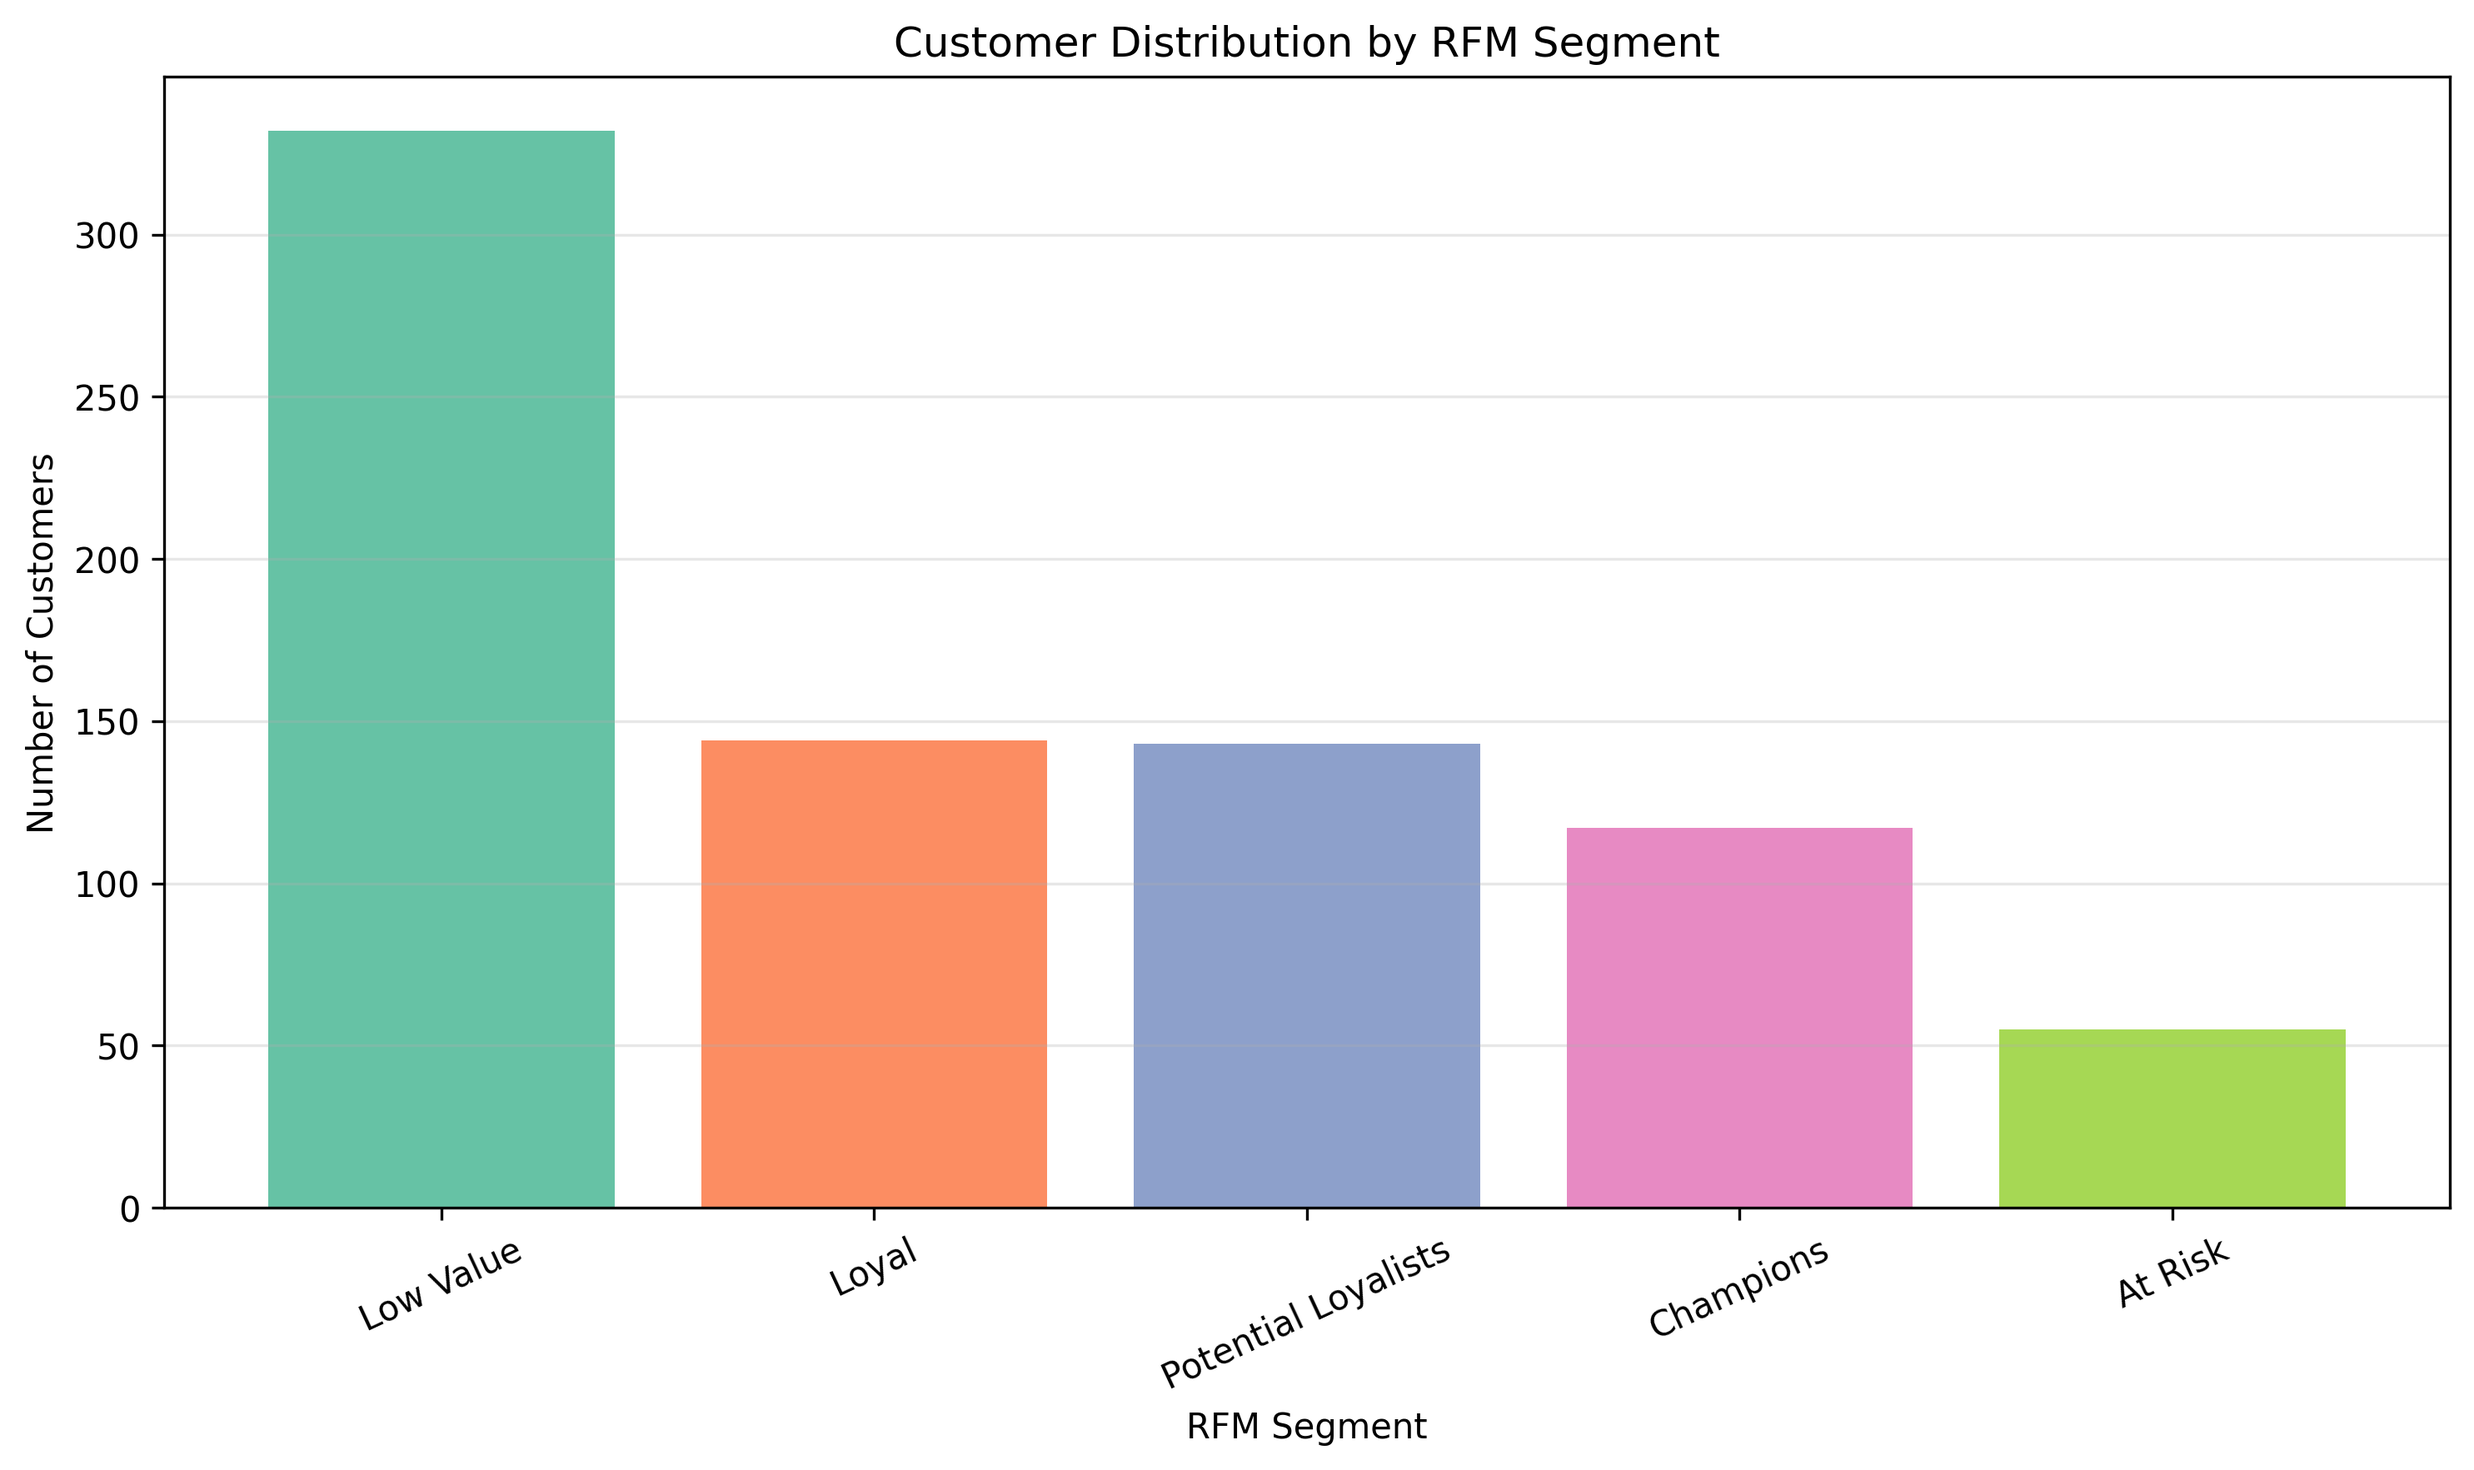
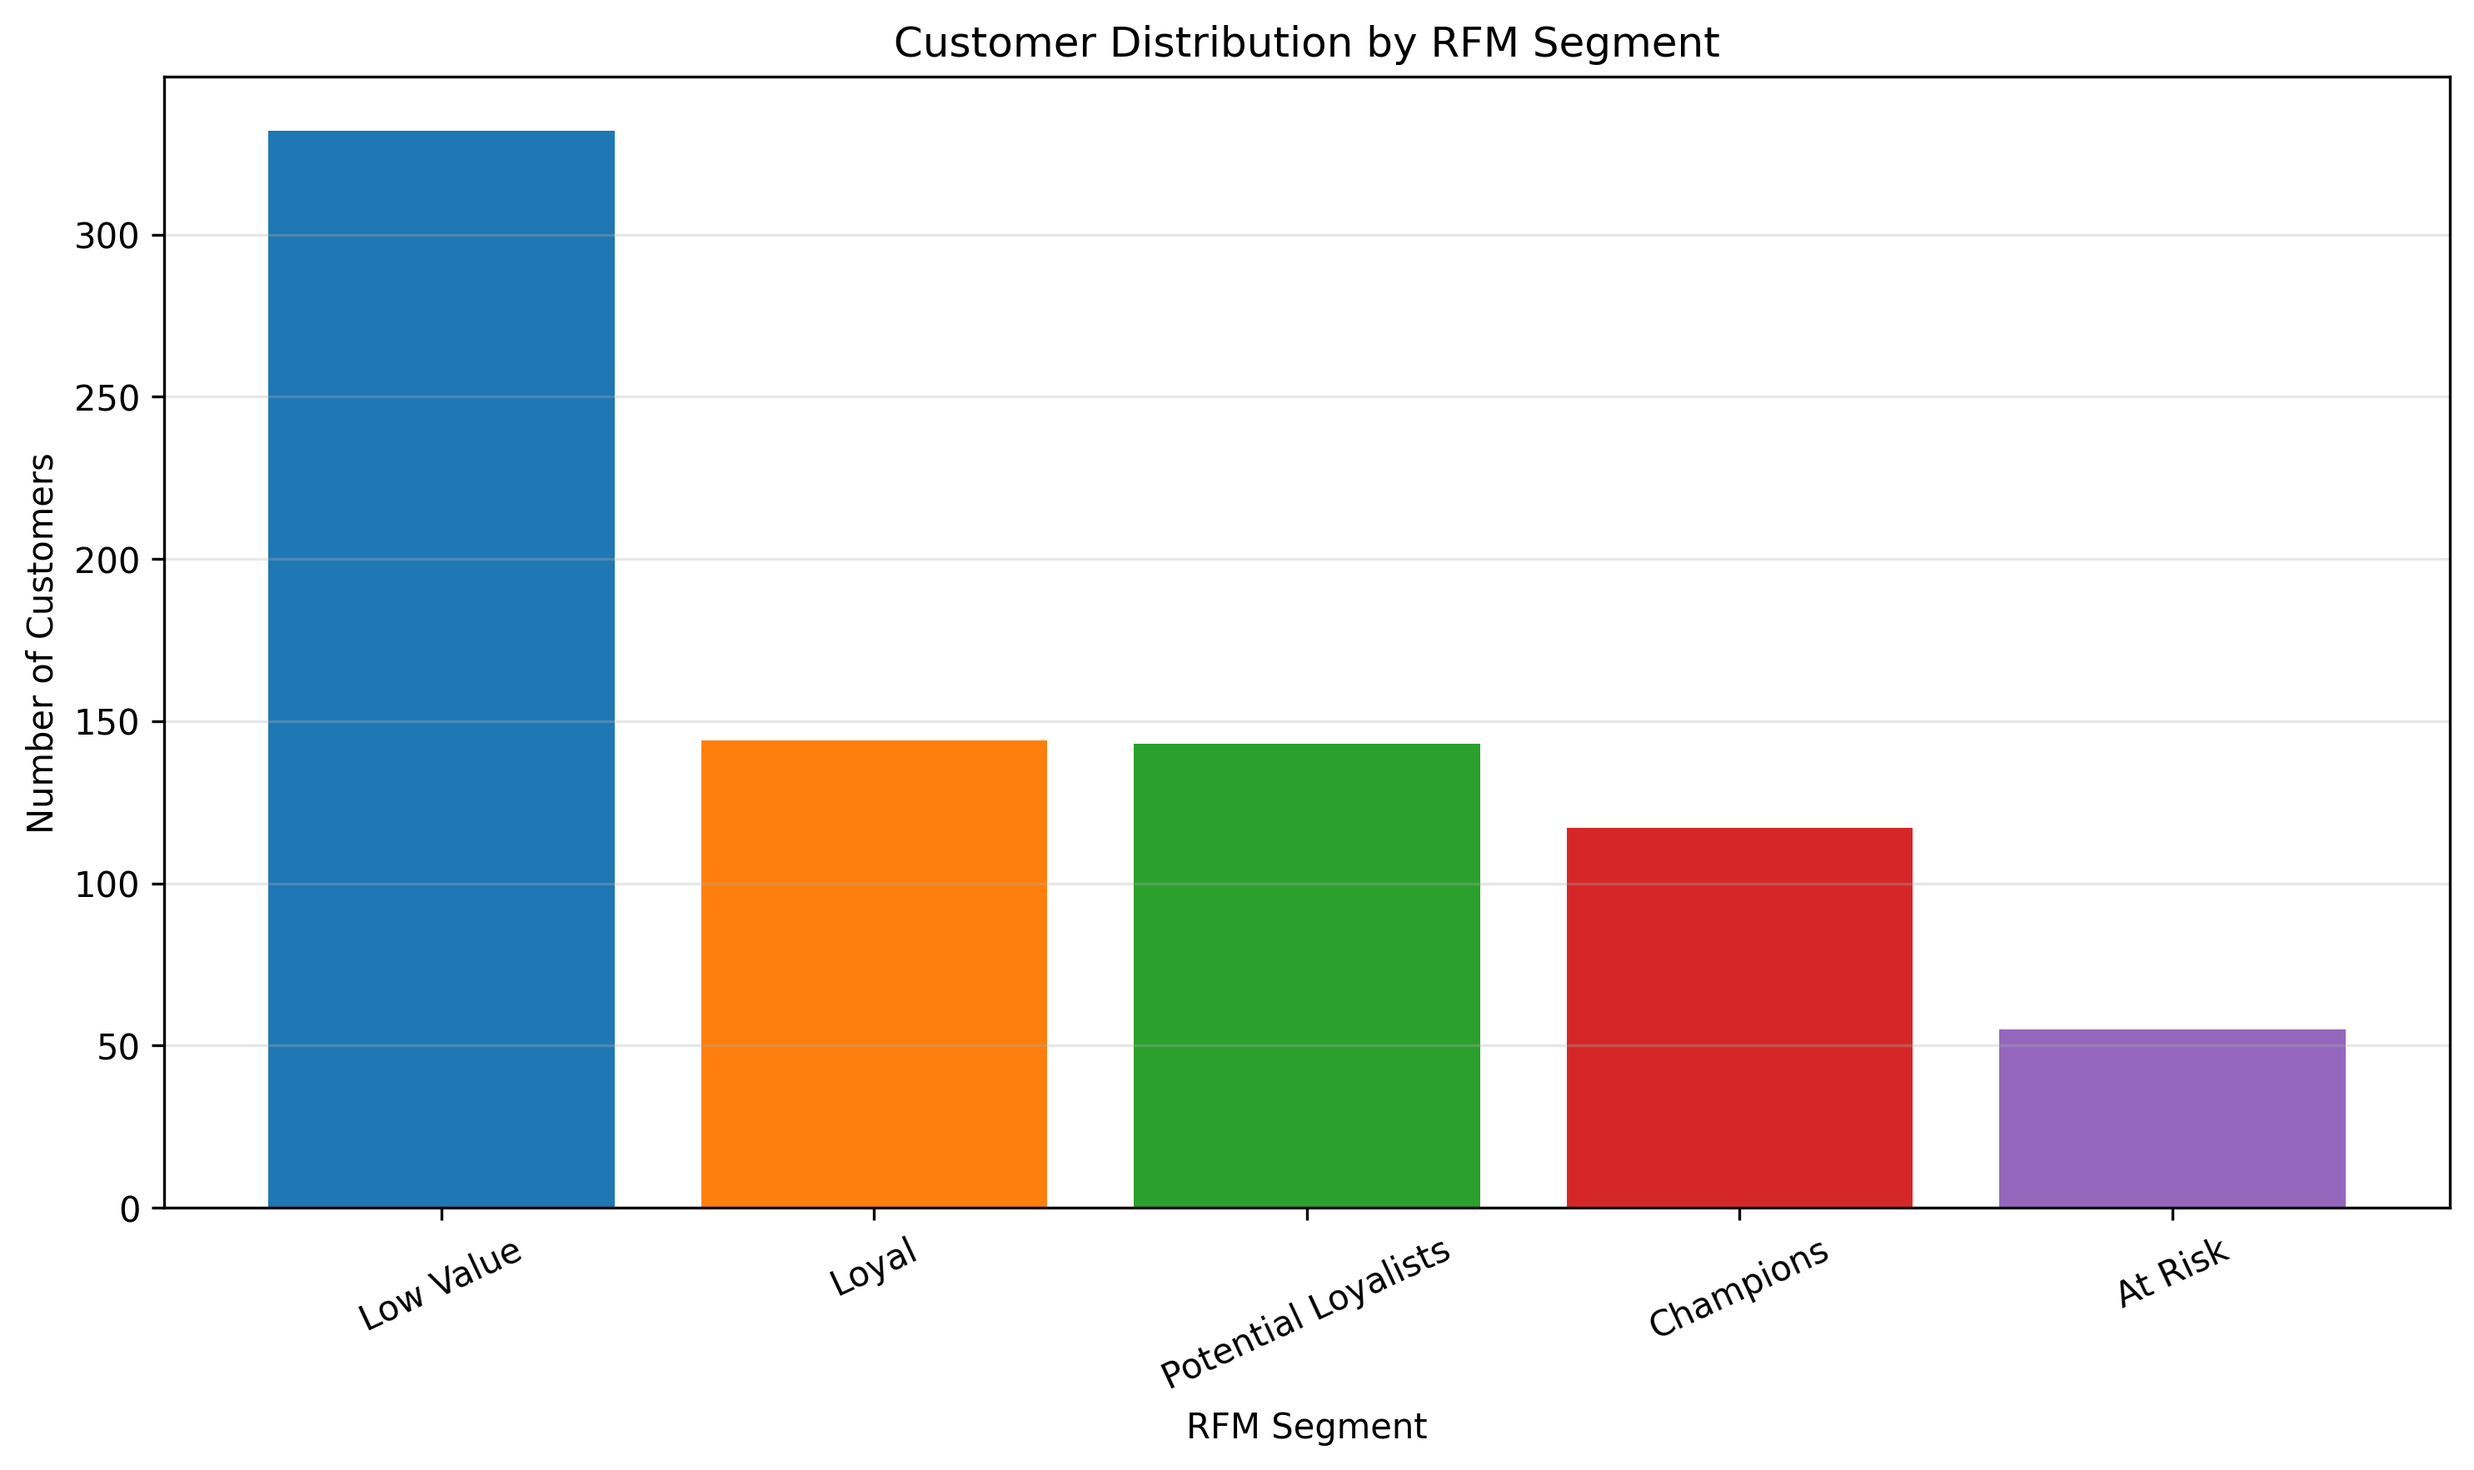
updated rfm segment distribution graph with different colours

Changed region(s): [[0.2788, 0.4986, 0.7744, 0.8414], [0.0929, 0.0623, 0.2478, 0.8414], [0.8054, 0.6856, 0.9603, 0.8414]]

diff --git a/scripts/visualizations/rfm_segment_distribution.py b/scripts/visualizations/rfm_segment_distribution.py
@@ -23,8 +23,8 @@ segment_counts = (
 
 plt.figure(figsize=(10, 6))
 
-# Give each RFM segment its own colour
-colors = plt.cm.Set2(range(len(segment_counts)))
+# Use a different colour palette from the Profit by Category chart
+colors = plt.cm.tab10(range(len(segment_counts)))
 
 plt.bar(
     segment_counts.index,
